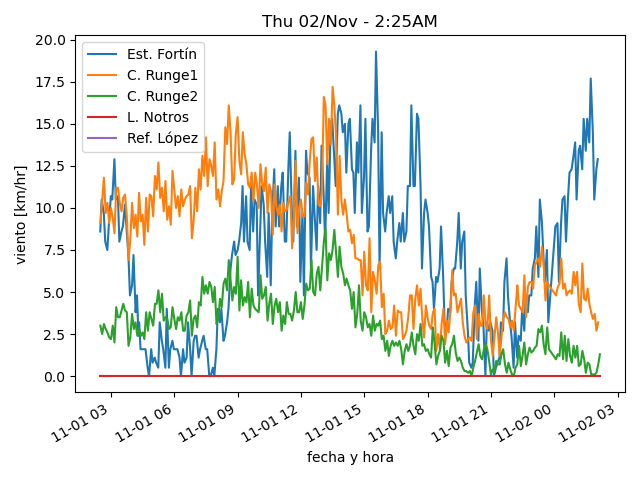
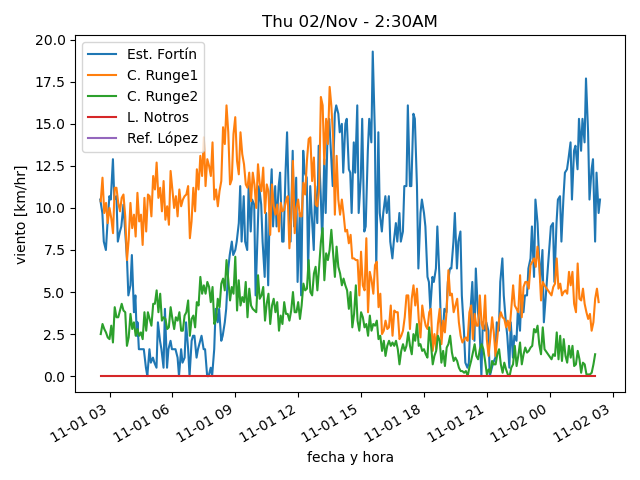
actualiza datos

diff --git a/estaciones/estacion2.html b/estaciones/estacion2.html
@@ -18,12 +18,12 @@
     </tr>
     <tr>
      <td class="stats_data">
-      2:03AM
+      2:23AM
      </td>
     </tr>
     <tr>
      <td class="stats_data">
-      3.2⁰C
+      3.1⁰C
      </td>
     </tr>
     <tr>
@@ -33,7 +33,7 @@
     </tr>
     <tr>
      <td class="stats_data">
-      89.0%
+      90.0%
      </td>
     </tr>
     <tr>
@@ -43,7 +43,7 @@
     </tr>
     <tr>
      <td class="stats_data">
-      3.9/12.9 km/hr ENE
+      7.2/10.5 km/hr NNE
      </td>
     </tr>
     <tr>

diff --git a/estaciones/estacion3.html b/estaciones/estacion3.html
@@ -18,7 +18,7 @@
     </tr>
     <tr>
      <td class="stats_data">
-      2:04AM
+      2:19AM
      </td>
     </tr>
     <tr>
@@ -33,7 +33,7 @@
     </tr>
     <tr>
      <td class="stats_data">
-      90.4%
+      90.3%
      </td>
     </tr>
     <tr>
@@ -43,7 +43,7 @@
     </tr>
     <tr>
      <td class="stats_data">
-      2.2/3.2 km/hr SSW
+      3.1/4.4 km/hr SSE
      </td>
     </tr>
     <tr>
